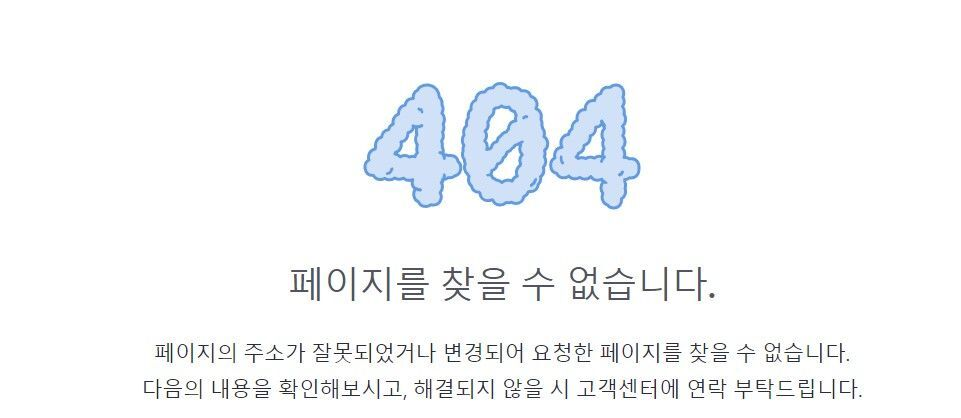
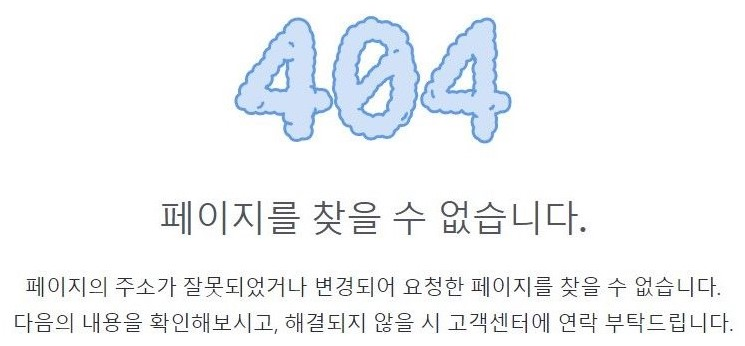
fix: 전체 CSS 수정, error.html 생성

diff --git a/frontend/new-cen/public/reset.css b/frontend/new-cen/public/reset.css
@@ -1,0 +1,48 @@
+/* http://meyerweb.com/eric/tools/css/reset/ 
+   v2.0 | 20110126
+   License: none (public domain)
+*/
+
+html, body, div, span, applet, object, iframe,
+h1, h2, h3, h4, h5, h6, p, blockquote, pre,
+a, abbr, acronym, address, big, cite, code,
+del, dfn, em, img, ins, kbd, q, s, samp,
+small, strike, strong, sub, sup, tt, var,
+b, u, i, center,
+dl, dt, dd, ol, ul, li,
+fieldset, form, label, legend,
+table, caption, tbody, tfoot, thead, tr, th, td,
+article, aside, canvas, details, embed, 
+figure, figcaption, footer, header, hgroup, 
+menu, nav, output, ruby, section, summary,
+time, mark, audio, video {
+	margin: 0;
+	padding: 0;
+	border: 0;
+	font-size: 100%;
+	font: inherit;
+	vertical-align: baseline;
+}
+/* HTML5 display-role reset for older browsers */
+article, aside, details, figcaption, figure, 
+footer, header, hgroup, menu, nav, section {
+	display: block;
+}
+body {
+	line-height: 1;
+}
+ol, ul {
+	list-style: none;
+}
+blockquote, q {
+	quotes: none;
+}
+blockquote:before, blockquote:after,
+q:before, q:after {
+	content: '';
+	content: none;
+}
+table {
+	border-collapse: collapse;
+	border-spacing: 0;
+}

diff --git a/frontend/new-cen/public/error.html b/frontend/new-cen/public/error.html
@@ -1,0 +1,16 @@
+<!DOCTYPE html>
+<html lang="ko">
+<head>
+    <meta charset="UTF-8">
+    <meta http-equiv="X-UA-Compatible" content="IE=edge">
+    <meta name="viewport" content="width=device-width, initial-scale=1.0">
+    <title>404 Error</title>
+    <link href="./error.css" rel="stylesheet">
+</head>
+<body>
+    <span class="err">
+        <img class="errorPage" alt='404 Error' src="/img/404.jpg"/>
+    </span>
+    
+</body>
+</html>

diff --git a/frontend/new-cen/src/components/common/Header.js b/frontend/new-cen/src/components/common/Header.js
@@ -69,7 +69,8 @@ const Header = () => {
 
     const noHeaderPathList = ['/join', '/signup', '/findinfo', '/signset'];
 
-    console.log(noHeaderPathList.includes(window.location.pathname));
+    // console.log(noHeaderPathList.includes(window.location.pathname));
+
     return (
         noHeaderPathList.includes(window.location.pathname)
         ? null 

diff --git a/frontend/new-cen/src/components/user/UserFindInfo.js b/frontend/new-cen/src/components/user/UserFindInfo.js
@@ -123,7 +123,7 @@ const UserFindInfo = () => {
 
     // 사내 인증코드 입력란 검증 체인지 이벤트 핸들러
     const validCodeHandler = e => {
-        console.log(e.target.value);
+        // console.log(e.target.value);
         
         // 사내코드 검증 시작
         let msg;

diff --git a/frontend/new-cen/src/components/user/UserSignUp.js b/frontend/new-cen/src/components/user/UserSignUp.js
@@ -119,7 +119,7 @@ const UserSignUp = () => {
 
     // 사내 인증코드 입력란 검증 체인지 이벤트 핸들러
     const validCodeHandler = e => {
-        console.log(e.target.value);
+        // console.log(e.target.value);
         
         // 사내코드 검증 시작
         let msg;

diff --git a/frontend/new-cen/public/error.css b/frontend/new-cen/public/error.css
@@ -1,0 +1,24 @@
+
+
+@import 'reset.css';
+
+body {
+    display: flex;
+    width: 100vw;
+    height: 100vh;
+    justify-content: center;
+    align-items: center;
+}
+
+.err {
+    width: 700px;
+    height: 500px;
+    
+}
+
+.errorPage {
+    width: 700px;
+
+}
+
+

diff --git a/frontend/new-cen/public/index.html b/frontend/new-cen/public/index.html
@@ -1,5 +1,5 @@
 <!DOCTYPE html>
-<html lang="en">
+<html lang="ko">
   <head>
     <meta charset="utf-8" />
     <link rel="icon" href="%PUBLIC_URL%/favicon.ico" />
